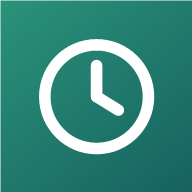
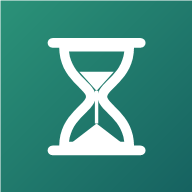
Add files via upload

Changed region(s): [[0.1875, 0.1875, 0.8125, 0.8125]]

diff --git a/js/app.js b/js/app.js
@@ -6,7 +6,7 @@ import { PERIOD_KINDS, buildReport, holidaysNRW, period, shiftAnchor, taxReport 
 import { reportPdf } from './pdf.js';
 import { reportXlsx } from './xlsx.js';
 
-const VERSION = '0.9 · Rückfrage bei Krankentagen';
+const VERSION = '0.10 · Hell/Dunkel wählbar, Sanduhr';
 
 const $ = (sel, root = document) => root.querySelector(sel);
 const esc = (s) =>
@@ -49,6 +49,20 @@ function applyPlaceColors() {
   }
   el.textContent = M.allPlaces().map((p) => `.place-${p.id}{--pc:var(--c${p.color})}`).join('\n');
 }
+// Hell oder dunkel: nach Handy-Einstellung oder fest gewählt
+const THEME_BAR = { light: '#1f7a6d', dark: '#11171a' };
+function applyTheme() {
+  const th = state.settings.theme;
+  const root = document.documentElement;
+  if (th === 'light' || th === 'dark') root.dataset.theme = th;
+  else delete root.dataset.theme;
+  // Farbe der Leiste oben am Handy
+  document.querySelectorAll('meta[name="theme-color"]').forEach((m) => {
+    const sys = (m.getAttribute('media') || '').includes('dark') ? 'dark' : 'light';
+    m.setAttribute('content', THEME_BAR[th === 'light' || th === 'dark' ? th : sys]);
+  });
+}
+
 const isTyping = () => ['INPUT', 'TEXTAREA', 'SELECT'].includes((document.activeElement || {}).tagName);
 const hasSpeech = !!(window.SpeechRecognition || window.webkitSpeechRecognition);
 
@@ -808,6 +822,17 @@ function viewSettings() {
            ${M.allPlaces().filter((p) => p.hidden).map(placeRow).join('')}`
         : ''
     }
+  </section>
+  <section class="card">
+    <h2>Darstellung</h2>
+    <div class="chips mode-chips">${[
+      ['auto', '📱 Auto'],
+      ['light', '☀ Hell'],
+      ['dark', '🌙 Dunkel'],
+    ]
+      .map(([k, label]) => `<button class="chip ${(s.theme || 'auto') === k ? 'on' : ''}" data-act="setTheme" data-theme="${k}">${label}</button>`)
+      .join('')}</div>
+    <p class="muted small">„Hell“ heißt heller Hintergrund mit dunkler Schrift, „Dunkel“ das Gegenteil. „Auto“ richtet sich nach dem Tag- oder Nachtmodus deines Handys.</p>
   </section>
   <section class="card">
     <h2>Hinweise beim Öffnen</h2>
@@ -1624,6 +1649,16 @@ const actions = {
     refreshPlaceSheet();
   },
 
+  setTheme(el) {
+    state.settings.theme = el.dataset.theme;
+    applyTheme();
+    saveSettings();
+    const view = $('#view');
+    const top = view.scrollTop;
+    render();
+    view.scrollTop = top;
+  },
+
   // --- Kategorie ---
   // „Weitere“ klappt die übrigen Kategorien auf und wieder zu
   catMore(el) {
@@ -1896,6 +1931,7 @@ async function init() {
     }
     M.setPlaces(state.settings.places);
     applyPlaceColors();
+    applyTheme();
     if (repaired) saveSettings();
   } catch (err) {
     console.error(err);

diff --git a/style.css b/style.css
@@ -29,10 +29,42 @@
   --hint-ink: #523c06;
   --radius: 18px;
   --shadow: 0 1px 2px rgba(0, 0, 0, 0.05), 0 6px 18px rgba(0, 0, 0, 0.05);
+  color-scheme: light;
+}
+
+/* Dunkel: entweder nach Handy-Einstellung (data-theme fehlt) oder fest gewählt (data-theme="dark").
+   Die beiden Farblisten unten müssen gleich bleiben. */
+:root[data-theme="dark"] {
+  color-scheme: dark;
+  --bg: #11171a;
+  --card: #1b2428;
+  --text: #e9eef0;
+  --muted: #9aa7ae;
+  --line: #2c383d;
+  --accent: #45b8a6;
+  --accent-ink: #06211d;
+  --go: #4cc083;
+  --wait: #eba94a;
+  --stop: #f0756c;
+  --btn-ink: #0d1416;
+  --c0: #7aa3f2;
+  --c1: #eda65c;
+  --c2: #56c588;
+  --c3: #b08ced;
+  --c4: #ee86b6;
+  --c5: #55c3d6;
+  --c6: #c9a27e;
+  --c7: #a3b1c6;
+  --place-ink: #0d1416;
+  --hint-bg: #3a3012;
+  --hint-line: #6f5b1d;
+  --hint-ink: #f6e4ad;
+  --shadow: none;
 }
 
 @media (prefers-color-scheme: dark) {
-  :root {
+  :root:not([data-theme="light"]) {
+    color-scheme: dark;
     --bg: #11171a;
     --card: #1b2428;
     --text: #e9eef0;

diff --git a/sw.js b/sw.js
@@ -2,7 +2,7 @@
 // Mit Internet wird immer die neueste Fassung geholt, ohne Internet die zuletzt gespeicherte.
 // Hier liegen nur die Programmdateien, keine Arbeitszeiten.
 
-const CACHE = 'wtt-app-v9';
+const CACHE = 'wtt-app-v10';
 const FILES = [
   './',
   './index.html',

diff --git a/js/model.js b/js/model.js
@@ -124,6 +124,7 @@ export function defaultSettings() {
     places: [],
     warnRunHours: 10,
     warnPauseHours: 3,
+    theme: 'auto', // Darstellung: 'auto' = wie das Handy, 'light' = hell, 'dark' = dunkel
   };
 }
 
